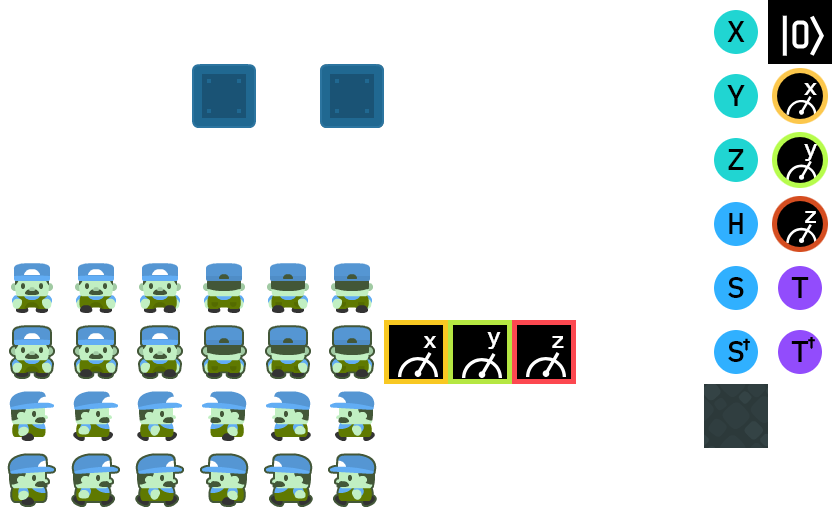
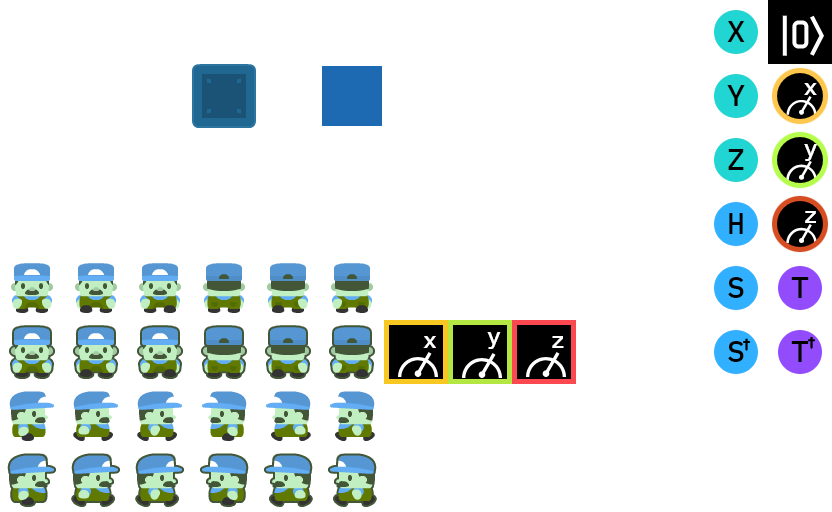
finalize layout, extract ui elements

Changed region(s): [[0.8438, 0.75, 0.9375, 0.875], [0.375, 0.125, 0.4688, 0.25]]

diff --git a/src/quest.js b/src/quest.js
@@ -4,11 +4,11 @@ import PIXI from 'expose-loader?PIXI!phaser-ce/build/custom/pixi.js';
 import p2 from 'expose-loader?p2!phaser-ce/build/custom/p2.js';
 import Phaser from 'expose-loader?Phaser!phaser-ce/build/custom/phaser-split.js';
 
-import merge from 'deepmerge';
-
 import config from './config';
 import Bloch from './bloch';
 import Burst from './burst';
+import Circuit from './circuit';
+import Menu from './menu';
 import Player from './player';
 import Qubit from './qubit';
 import Score from './score';
@@ -49,6 +49,8 @@ Quest.prototype = {
     },
 
     preload: function () {
+
+        this.load.image('bg','assets/images/bg.png?nocache='+Date.now(),true);
         
         this.load.spritesheet('burst', 'assets/sprites/burst.png', 100, 100);
         this.load.audio('burst_sound','assets/sounds/446145__justinvoke__freeze-hit.wav');
@@ -68,7 +70,7 @@ Quest.prototype = {
         this.load.audio('bgmusic', ['assets/sounds/Juhani Junkala [Chiptune Adventures] 1. Stage 1.ogg']);
 
         // ui icons
-        this.load.spritesheet('icons','assets/sprites/icons.png',50,50);
+        this.load.spritesheet('icons','assets/sprites/icons.png?nocache='+Date.now(),50,50);
 
     },
 
@@ -77,41 +79,24 @@ Quest.prototype = {
         this.map = this.add.tilemap('map');
         this.map.addTilesetImage('tileset', 'tiles');
 
-        const mapW = this.map.widthInPixels;
-        const mapH = this.map.heightInPixels;
+        this.layerFloor = this.map.createLayer('floor');
 
-        this.mapLayers = this.add.group();
-        // this.mapLayers.x = 0;
-        // this.mapLayers.y = 288;
-
-        this.layerFloor = this.map.createLayer('floor',mapW,mapH,this.mapLayers);
-
-        this.layerWalls = this.map.createLayer('walls',mapW,mapH,this.mapLayers);
+        this.layerWalls = this.map.createLayer('walls');
         this.map.setCollisionByExclusion(config.tiles.empty,true/*collides*/,this.layerWalls);
 
-        this.layerGates = this.map.createLayer('gates',mapW,mapH,this.mapLayers);
-        this.layerReads = this.map.createLayer('reads',mapW,mapH,this.mapLayers);
+        this.layerGates = this.map.createLayer('gates');
+        this.layerReads = this.map.createLayer('reads');
 
-        this.gates = this.add.physicsGroup(Phaser.Physics.ARCADE,this.mapLayers);
+        this.gates = this.add.physicsGroup();
         this.map.createFromTiles(config.tiles.gate, -1, 'spritesheet', this.layerGates, this.gates);
         this.gates.children.forEach( tile=>{
             tile.frame=config.frames.gate; // https://github.com/photonstorm/phaser/issues/2175
             // tile.alpha=0.5;
         });
 
-        this.burst = Burst.create(this, Object.assign(
-            {},
-            {
-                group: this.mapLayers,
-            },
-            merge(config.burst,{
-                sprite:{
-                    tint: 0x00ff00,
-                }
-            })
-        ));
+        this.burst = Burst.create(this, config.burst);
 
-        this.reads = this.add.physicsGroup(Phaser.Physics.ARCADE,this.mapLayers);
+        this.reads = this.add.physicsGroup();
         this.map.createFromTiles(config.tiles.read, -1, 'spritesheet', this.layerReads, this.reads);
         this.reads.children.forEach( tile=>{
             tile.frame=config.frames.read; // https://github.com/photonstorm/phaser/issues/2175
@@ -122,7 +107,7 @@ Quest.prototype = {
             // tile.alpha=0.5;
         });
 
-        this.powerup = this.add.sprite(0,0,'powerup',undefined,this.mapLayers);
+        this.powerup = this.add.sprite(0,0,'powerup');
         this.powerup.anchor.set(0.5);
         this.powerup.tint = 0xff0000;
         this.powerup.width = 256;
@@ -131,8 +116,7 @@ Quest.prototype = {
         this.powerup.sound = this.add.audio('powerup_sound');
 
         this.player = Player.create( this, Object.freeze(Object.assign({},config.player,{
-            group: this.mapLayers,
-            // TODO: decouple
+            // TODO: decouple, perhaps with event system
             map: this.map,
             layerWalls: this.layerWalls,
         })));
@@ -142,38 +126,20 @@ Quest.prototype = {
         this.score = Score.create(this, config.score);
 
         // q ui
-        this.uiCircuit = this.add.image(1280,480,'qcircuit');
+        this.uiCircuit = Circuit.create(this);
+        this.uiCircuit.position.set(0,300);
 
         this.uiBloch = Bloch.create(this);
+        this.uiBloch.position.set(676,136);
 
         // backgroud music
         this.music = this.add.audio('bgmusic');
         this.music.loop=true;
         this.music.play();
 
-        // audio controls
-        const iconMute = 140;
-        const iconUnmute = 120;
-        this.sound.mute = false;
-        try {
-            this.sound.mute = JSON.parse(localStorage.getItem('qgq:mute'));
-        }catch(e){
-            console.debug('qgq mute setting note found');
-        }
-        this.muteBtn = this.add.button(this.world.centerX - 95, 400, 'icons', ()=>{
-            this.sound.mute = !this.sound.mute;
-            localStorage.setItem('qgq:mute', this.sound.mute);
-            if (this.sound.mute){
-                this.muteBtn.setFrames(iconMute,iconMute,iconUnmute,iconMute);
-            }else{
-                this.muteBtn.setFrames(iconUnmute,iconUnmute,iconMute,iconUnmute);
-            }
-        }, this, iconMute, iconUnmute, iconMute);
-        if (this.sound.mute){
-            this.muteBtn.setFrames(iconMute,iconMute,iconUnmute,iconMute);
-        }else{
-            this.muteBtn.setFrames(iconUnmute,iconUnmute,iconMute,iconUnmute);
-        }
+        this.menu = Menu.create(this,config.menu);
+
+        this.add.image(0,0,'bg');
 
     },
 
@@ -186,7 +152,7 @@ Quest.prototype = {
             // TODO: handle load failure
             // update q images 
             this.uiBloch.reloadTexture();
-            this.uiCircuit.loadTexture('qcircuit');
+            this.uiCircuit.reloadTexture();
         });
         this.load.start();
     },

diff --git a/src/menu.js b/src/menu.js
@@ -1,0 +1,79 @@
+// Phaser CE + Webpack loading
+// https://github.com/photonstorm/phaser-ce/blob/master/resources/Project%20Templates/Webpack/src/index.js
+import PIXI from 'expose-loader?PIXI!phaser-ce/build/custom/pixi.js';
+import p2 from 'expose-loader?p2!phaser-ce/build/custom/p2.js';
+import Phaser from 'expose-loader?Phaser!phaser-ce/build/custom/phaser-split.js';
+
+export default class Menu extends Phaser.Group {
+    constructor(){
+        super(...arguments);
+
+        this.iconRestart = null;
+        this.iconHelp = null;
+        this.iconMute = null;
+        this.iconUnmute = null;
+
+        this.restartBtn = null;
+        this.helpBtn = null;
+        this.muteBtn = null;
+    }
+    
+    static create(state,options={}){
+        const game = options.game || state.game;
+        const group = options.group || state.world;
+
+        const menu = group.add(new Menu(game));
+        menu.position.x = options.x||0;
+        menu.position.y = options.y||0;
+
+        // icons
+        menu.iconRestart = options.icons.restart;
+        menu.iconHelp = options.icons.help;
+        menu.iconMute = options.icons.mute;
+        menu.iconUnmute = options.icons.unmute;
+        
+        // look for saved mute status in local storage
+        try {
+            state.sound.mute = JSON.parse(localStorage.getItem('qgq:mute'));
+        }catch(e){
+            console.debug('qgq mute setting note found');
+            state.sound.mute = false;
+        }
+
+        // place buttons
+
+        let x = 0;
+        let y = 0;
+        const sz = 50;
+
+        menu.restartBtn = game.add.button(x, y, 'icons', ()=>{
+            console.log('restart');
+        }, menu, menu.iconRestart, menu.iconRestart, menu.iconRestart, menu.iconRestart, menu)
+
+        x+=sz;
+
+        menu.helpBtn = game.add.button(x, y, 'icons', ()=>{
+            console.log('help');
+        }, menu, menu.iconHelp, menu.iconHelp, menu.iconHelp, menu.iconHelp, menu)
+
+        x+=sz;
+
+        menu.muteBtn = game.add.button(x, y, 'icons', ()=>{
+            state.sound.mute = !state.sound.mute;
+            localStorage.setItem('qgq:mute', state.sound.mute);
+            menu.updateMuteState(state.sound.mute);
+        }, menu, menu.iconMute, menu.iconMute, menu.iconUnmute, menu.iconMute, menu);
+
+        menu.updateMuteState(state.sound.mute);
+
+        return menu;
+    }
+
+    updateMuteState(mute){
+        if (mute){
+            this.muteBtn.setFrames(this.iconMute,this.iconMute,this.iconUnmute,this.iconMute);
+        }else{
+            this.muteBtn.setFrames(this.iconUnmute,this.iconUnmute,this.iconMute,this.iconUnmute);
+        }
+    }
+}

diff --git a/src/circuit.js b/src/circuit.js
@@ -1,0 +1,27 @@
+// Phaser CE + Webpack loading
+// https://github.com/photonstorm/phaser-ce/blob/master/resources/Project%20Templates/Webpack/src/index.js
+import PIXI from 'expose-loader?PIXI!phaser-ce/build/custom/pixi.js';
+import p2 from 'expose-loader?p2!phaser-ce/build/custom/p2.js';
+import Phaser from 'expose-loader?Phaser!phaser-ce/build/custom/phaser-split.js';
+
+export default class Circuit extends Phaser.Group {
+    constructor(){
+        super(...arguments);
+        this.circuitDiagram = null;
+    }
+    
+    static create(state,options={}){
+        const game = options.game || state.game;
+        const group = options.group || state.world;
+
+        const circuit = group.add(new Circuit(game));
+        circuit.circuitDiagram = game.add.image(0,0,'qcircuit',0,circuit);
+        // circuit.circuitDiagram.crop(new Phaser.Rectangle(96,0,1000,1000));
+
+        return circuit;
+    }
+
+    reloadTexture(){
+        this.circuitDiagram.loadTexture('qcircuit');
+    }
+}

diff --git a/src/bloch.js b/src/bloch.js
@@ -5,7 +5,6 @@ import p2 from 'expose-loader?p2!phaser-ce/build/custom/p2.js';
 import Phaser from 'expose-loader?Phaser!phaser-ce/build/custom/phaser-split.js';
 
 import config from './config';
-import FilterRemoveWhite from './filterRemoveWhite';
 
 export default class Bloch extends Phaser.Group {
     constructor(){
@@ -29,12 +28,6 @@ export default class Bloch extends Phaser.Group {
     
         bloch.blochDiagram = game.add.image(44,44,'qbloch',0,bloch.blochDiagramContainer);
         bloch.blochDiagram.crop(new Phaser.Rectangle(107,95,288,285));
-        // bloch.filter = ;
-        // bloch.filter.setResolution(config.game.width, config.game.height);
-        bloch.blochDiagram.filters = [ new FilterRemoveWhite(bloch, {
-            edge0:0.0,
-            edge1:0.95
-        }) ];
     
         bloch.labels.xread = game.add.image(54,240,'spritesheet',config.icons.readX, bloch);
         bloch.labels.yread = game.add.image(316,198,'spritesheet',config.icons.readY, bloch);

diff --git a/src/config.js b/src/config.js
@@ -34,7 +34,7 @@ export default Object.freeze({
             anchor: 0.5,
             // starting point
             x: 1.5 * GRID_SIZE, 
-            y: 7.5 * GRID_SIZE,
+            y: 15.5 * GRID_SIZE,
         },
         animations:[
             { name: 'walk-left',  frames: [94,95,94,96], frameRate: 10, loop: true },
@@ -55,7 +55,7 @@ export default Object.freeze({
             y: 0,
             width: 256,
             height: 256,
-            tint: 0xffffff,
+            tint: 0x00ff00,
         },
         animations:[
             { name: 'burst' },
@@ -105,6 +105,19 @@ export default Object.freeze({
         brightgreen:0xb6fc4c,
         red:0xd54d20,
         blochred:0xcf518a,
-    }
+    },
+
+    menu:{
+        x:20,
+        y:50,
+        icons:{
+            restart: 24,
+            help: 44,
+            mute: 140,
+            unmute: 120,
+            musicOn: 5,
+            musicOff: 25,
+        }
+    },
 
 });

diff --git a/public/index.html b/public/index.html
@@ -7,7 +7,7 @@
         body {
             margin: 0;
             padding: 0;
-            background-color: #222222;
+            background-color: #ffffff;
         }
     </style>
 </head>
